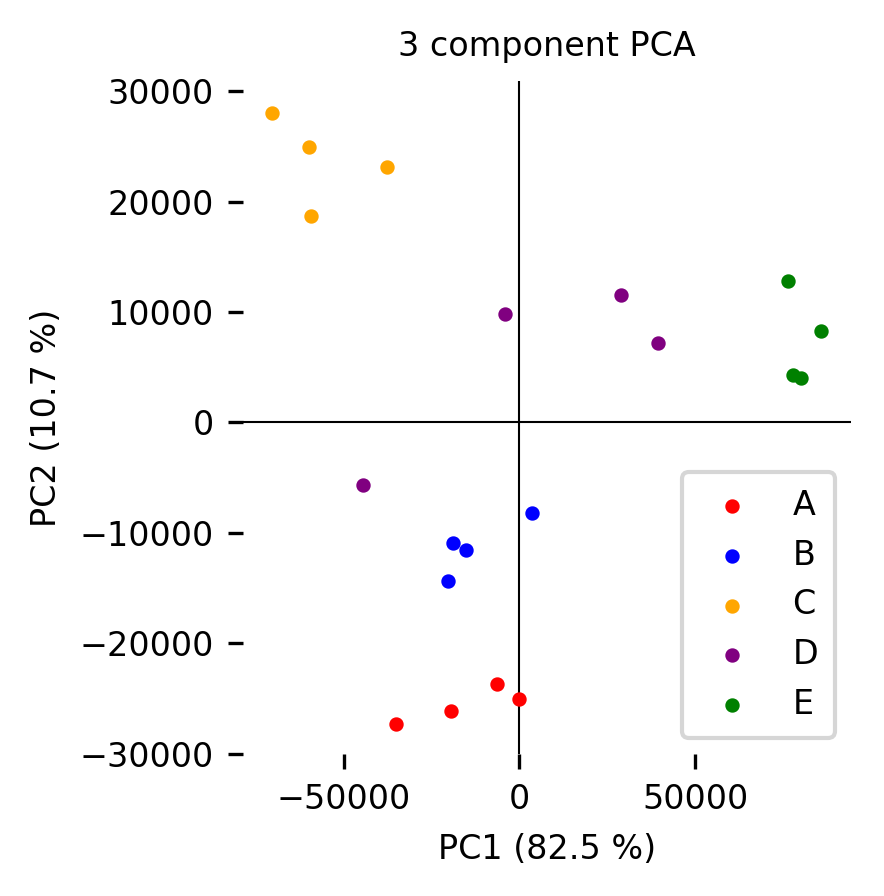
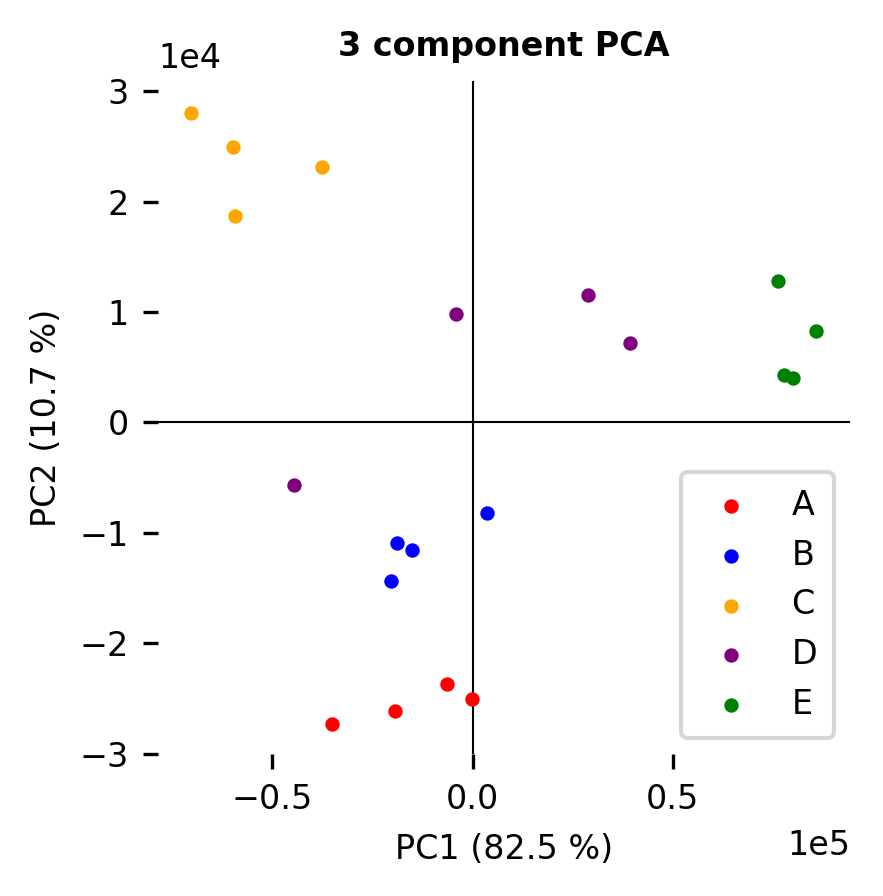
fixed up pcorr stats function and added a PLS-DA projection plotting function
... also some general cleaning up and style changes between the stats functions for PLS-DA and pcorr, as well as plotting functions for PLS-DA and PCA3 projections

diff --git a/lipydomics/plotting.py b/lipydomics/plotting.py
@@ -75,15 +75,15 @@ barplot_feature_bygroup
         for d in ['top', 'right']:
             ax.spines[d].set_visible(False)
         ax.set_ylabel('intensity')
-        ax.set_title('mz: {:.4f} rt: {:.2f} ccs: {:.1f}'.format(mz, rt, ccs), fontsize=8)
+        ax.set_title('mz: {:.4f} rt: {:.2f} ccs: {:.1f}'.format(mz, rt, ccs), fontsize=8, fontweight='bold')
 
         plt.tight_layout()
         plt.savefig(fig_path, dpi=300, bbox_inches='tight')
 
 
-def scatter_PCA3_projections_bygroup(dataset, group_names, path, normed=False):
+def scatter_pca3_projections_bygroup(dataset, group_names, path, normed=False):
     """
-scatter_PCA3_projections_bygroup
+scatter_pca3_projections_bygroup
     description:
         generates a scatter plot of the PCA projections for a specified set of groups and saves the image to a 
         specified directory. The filename of the image is:
@@ -118,7 +118,60 @@ scatter_PCA3_projections_bygroup
         ax.spines[d].set_visible(False)
     ax.set_xlabel('PC1 ({:.1f} %)'.format(100. * dataset.pca3_.explained_variance_ratio_[0]), fontsize=8)
     ax.set_ylabel('PC2 ({:.1f} %)'.format(100. * dataset.pca3_.explained_variance_ratio_[1]), fontsize=8)
-    ax.set_title('3 component PCA', fontsize=8)
+    ax.set_title('3 component PCA', fontsize=8, fontweight='bold')
+
+    ax.ticklabel_format(style='sci', scilimits=(0, 0))
+
+    ax.legend(fontsize=8, borderpad=0.5)
+
+    plt.tight_layout()
+    plt.savefig(fig_path, dpi=300, bbox_inches='tight')
+
+
+def scatter_plsda_projections_bygroup(dataset, group_names, path, normed=False):
+    """
+scatter_plsda_projections_bygroup
+    description:
+        generates a scatter plot of the PLS-DA projections for a specified set of groups and saves the image to a 
+        specified directory. The filename of the image is:
+            'PLS-DA_projections_{group_A}-{group_B}_{raw or normed}.png'
+    parameters:
+        dataset (lipydomics.data.Dataset) -- lipidomics dataset
+        group_names (list(str)) -- pick groups to plot against
+        path (str) -- path to save the image under
+        [normed (bool)] -- Use normalized data (True) or raw (False) [optional, default=False]
+"""
+    if len(group_names) != 2:
+        m = 'scatter_plsda_projections_bygroup: 2 group names must be specified for PLS-DA, {} group names specified'
+        raise ValueError(m.format(len(group_names)))
+
+    # generate the path to save the figure under
+    if normed:
+        nrm = 'normed'
+    else: 
+        nrm = 'raw'
+    fig_name = 'PLS-DA_projections_{}_{}.png'.format('-'.join(group_names), nrm)
+    fig_path = os.path.join(path, fig_name)
+
+    # make the plot
+    fig = plt.figure(figsize=(3, 3))
+    ax = fig.add_subplot(111)
+
+    ax.axvline(lw=0.5, c='k', zorder=0)
+    ax.axhline(lw=0.5, c='k', zorder=0)
+
+    for group_name, c in zip(group_names, ['r', 'b', '#ffa600', 'purple', 'green', 'm']):
+
+        d = np.array([dataset.stats['PLS-DA_{}_projections_{}'.format('-'.join(group_names), nrm)][i][:2] for i in dataset.group_indices[group_name]]).T
+        ax.scatter(*d, marker='.', s=24, c=c, label=group_name)
+
+    for d in ['top', 'right', 'bottom', 'left']:
+        ax.spines[d].set_visible(False)
+    ax.set_xlabel('scores[0]', fontsize=8)
+    ax.set_ylabel('scores[1]', fontsize=8)
+    ax.set_title('PLS-DA', fontsize=8, fontweight='bold')
+
+    ax.ticklabel_format(style='sci', scilimits=(0, 0))
 
     ax.legend(fontsize=8, borderpad=0.5)
 

diff --git a/lipydomics/stats.py b/lipydomics/stats.py
@@ -87,7 +87,7 @@ add_pca3
     dataset.stats['PCA3_projections_{}'.format(nrm)] = dataset.pca3_.transform(use_data)
 
 
-def add_plsda(dataset, group_names, normed=False):
+def add_plsda(dataset, group_names, normed=False, scaled=False):
     """
 add_plsda
     description:
@@ -105,6 +105,7 @@ add_plsda
         dataset (lipydomics.data.Dataset) -- lipidomics dataset
         group_names (list(str)) -- groups to use to compute the PLS-DA, only 2 groups allowed
         [normed (bool)] -- Use normalized data (True) or raw (False) [optional, default=False]
+        [scaled (bool)] -- whether to let the PLSRegression scale the X data [optional, default=False]
 """
     if len(group_names) != 2:
         m = 'add_plsda: 2 group names must be specified for PLS-DA, {} group names specified'
@@ -118,7 +119,7 @@ add_plsda
     y = np.array([1 for _ in range(n_A)] + [-1 for _ in range(n_B)])
 
     # initialize the PLSRegression object, add to the Dataset, fit the group data
-    dataset.plsr_ = PLSRegression()
+    dataset.plsr_ = PLSRegression(scale=scaled)
     dataset.plsr_.fit(X, y)
 
     if normed:
@@ -158,10 +159,10 @@ add_2group_corr
     # target variable is just 1 for group A and -1 for group B
     n_A = len(dataset.group_indices[group_names[0]])
     n_B = len(dataset.group_indices[group_names[1]])
-    x = np.array([1 for _ in range(n_A)] + [-1 for _ in range(n_B)])
+    # set so that the direction is the same as in PLS-DA
+    x = np.array([-1 for _ in range(n_A)] + [1 for _ in range(n_B)])
 
     # compute correlation coefficients for each feature
-    """
     corr = []
     for y in Y:
         c = 0.
@@ -174,8 +175,6 @@ add_2group_corr
 
     # convert corr to a numpy array
     corr = np.array(corr)
-    """
-    corr = np.array([pearsonr(x, y)[0] for y in Y])
 
     if normed:
         nrm = 'normed'
